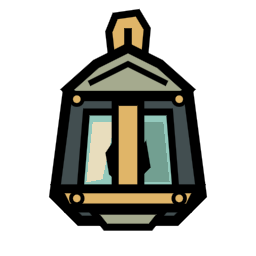
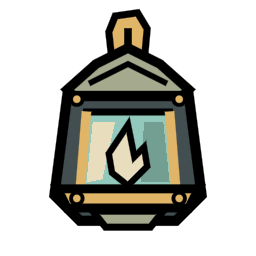
Finalize revised gear illustrations and reusable effect coverage

Changed region(s): [[0.4062, 0.375, 0.5938, 0.75], [0.625, 0.4062, 0.7188, 0.7188], [0.2812, 0.4062, 0.375, 0.7188]]

diff --git a/docs/GEAR.md b/docs/GEAR.md
@@ -54,4 +54,4 @@ The September 7 gear direction follows the user's detailed portal references: la
 
 `rendering/actors/relic_art.gd` selects the Gear node's presentation family. The six families in `rendering/actors/gear/` compose the shared `illustration.gd` drawing kit. Menus, developer portraits, equipped badges and drops all use that renderer. There are no bitmap dependencies in gameplay; `assets/gear/` contains transparent 256px exports of all eighteen native designs for inspection and reuse.
 
-Validation: `tests/gear_runner.gd` covers catalog counts, every field, actual effects, component composition, all tower/specialization launch paths, lifecycle and save migration, including `unit/gear_rework_checks.gd`. The unit checks also run in `tests/test_runner.gd`. `tests/rendered/gear_menu_checks.gd` covers the eighteen-piece editor and mobile layouts. Run `tests/rendered/gear_art_runner.gd` to regenerate all eighteen PNGs and `artifacts/gear-lineup.png`, with transparent padding, unique image content and 24/40/64px silhouette checks.
+Validation: `tests/gear_runner.gd` covers catalog counts, every field, actual effects, component composition, all tower/specialization launch paths, lifecycle and save migration, including `unit/gear_rework_checks.gd`. The unit checks also run in `tests/test_runner.gd`. `tests/rendered/gear_menu_checks.gd` covers the eighteen-piece editor and mobile layouts. `tests/rendered/gear_gameplay_runner.gd` opens every equipment detail at three phone sizes in Infinite and Campaign, and verifies equipped range circles and upgrade comparisons. Run `tests/rendered/gear_art_runner.gd` to regenerate all eighteen PNGs and `artifacts/gear-lineup.png`, with transparent padding, unique image content and 24/40/64px silhouette checks.

diff --git a/tests/README.md b/tests/README.md
@@ -64,6 +64,8 @@ Run `Godot --headless --path . --script tests/developer_tiers_runner.gd` for sch
 
 ## Relic equipment
 
+The revised roster also runs `unit/gear_rework_checks.gd`: actual ground damage and overlap, area-stun boundaries and immunity, credited-kill stacks, range acquisition, scaling Pyre blasts, component reassignment/removal, campaign cleanup and retired Lantern settings. `rendered/gear_gameplay_runner.gd` opens every item at 360×640, 390×844 and 540×960 in both modes and checks the equipped range circle and upgrade comparison. `rendered/gear_art_runner.gd` exports all eighteen native illustrations to `assets/gear/`, verifies transparent padding and small silhouettes, and renders the parchment board. The art runner is included in `-ArtSmoke` and `-Check`.
+
 The main headless suite includes `unit/relic_checks.gd` for guaranteed drops, transfers, ownership validation, legacy rewards, save roundtrips, and combat across every tower and specialization. Run Godot with `--path . --script tests/rendered/relic_runner.gd` for equipment mouse/touch interactions and responsive screenshots at three sizes.
 
 Run `--headless --path . --script tests/gear_runner.gd` for the eighteen-piece catalog, complete boss sets, every gear tuning field, reusable attribute composition, damage/status effects, removal, pooling and legacy save migration. These checks also run in the full unit suite. Run `--path . --script tests/rendered/gear_menu_checks.gd` for every Gear editor field at 360×640, 390×844 and 540×960, source-boss descriptions, exact defaults, illustrated selection menu sizing, reset and save-on-close. It produces `artifacts/gear-lineup.png` and per-piece editor screenshots.
